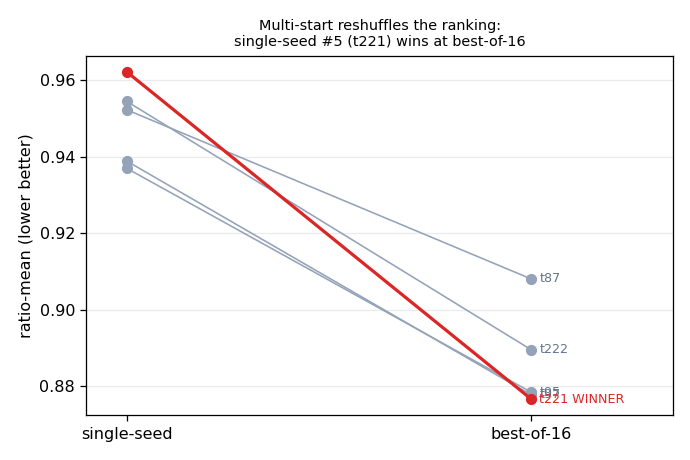
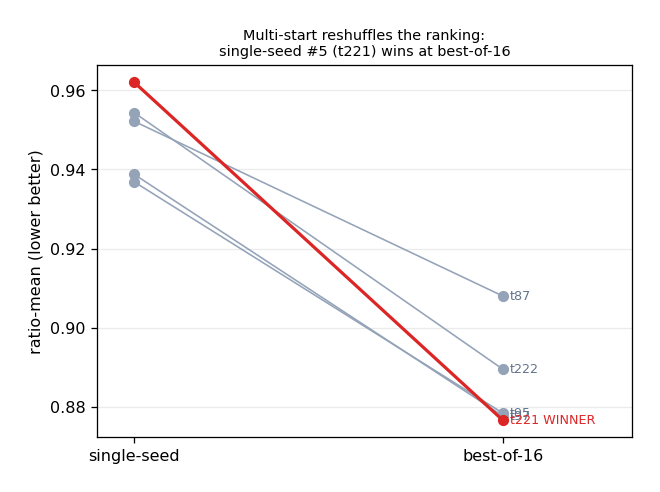
Plots: use bbox_inches/constrained_layout so titles are not cut off

diff --git a/scripts/make_gif.py b/scripts/make_gif.py
@@ -77,7 +77,7 @@ areas = sz[:nh, 0] * sz[:nh, 1]
 norm = mcolors.LogNorm(vmin=areas.min(), vmax=areas.max())
 imgs = []
 for pos, label in frames:
-    fig, ax = plt.subplots(figsize=(5, 5))
+    fig, ax = plt.subplots(figsize=(5, 5.2), constrained_layout=True)
     ax.add_patch(Rectangle((0, 0), b.canvas_width, b.canvas_height, fill=False, ec="black", lw=1.2))
     ax.scatter(pos[nh:, 0], pos[nh:, 1], s=2, c="0.7", alpha=0.35)
     for i in range(nh):
@@ -87,7 +87,7 @@ for pos, label in frames:
     ax.set_xlim(-1, b.canvas_width + 1); ax.set_ylim(-1, b.canvas_height + 1)
     ax.set_aspect("equal"); ax.set_xticks([]); ax.set_yticks([])
     ax.set_title(f"{nm}: {label}", fontsize=11)
-    fig.tight_layout(); fig.canvas.draw()
+    fig.canvas.draw()
     imgs.append(Image.fromarray(np.asarray(fig.canvas.buffer_rgba())[..., :3].copy()))
     plt.close(fig)
 

diff --git a/scripts/plot_layouts.py b/scripts/plot_layouts.py
@@ -49,5 +49,5 @@ for nm in benches:
     fig, ax = plt.subplots(1, 2, figsize=(11, 5.6))
     draw(ax[0], bench, ref, sz, nh, f"{nm} — reference (proxy {pr:.3f})")
     draw(ax[1], bench, best, sz, nh, f"{nm} — ours (proxy {pb:.3f}, {pb/pr:.2f}× ref)")
-    fig.tight_layout(); fig.savefig(f"{NOTES}/fig_layout_{nm}.png", dpi=115)
+    fig.savefig(f"{NOTES}/fig_layout_{nm}.png", dpi=115, bbox_inches="tight", pad_inches=0.3)
     print(f"saved fig_layout_{nm}.png  ref={pr:.3f} ours={pb:.3f} ratio={pb/pr:.3f}")
